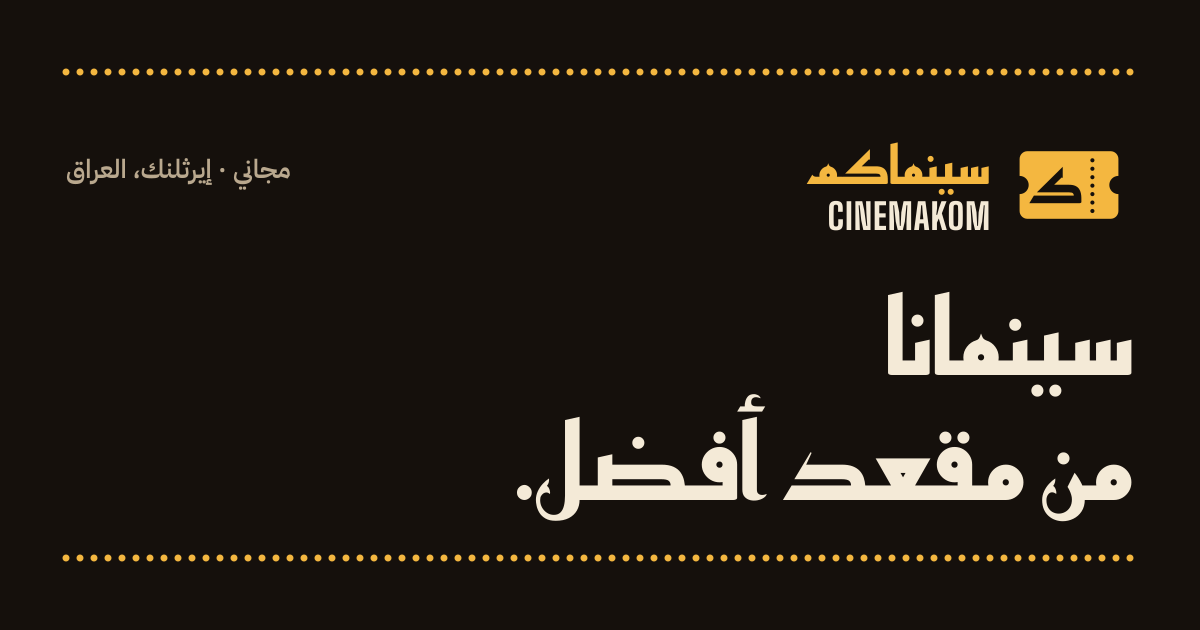
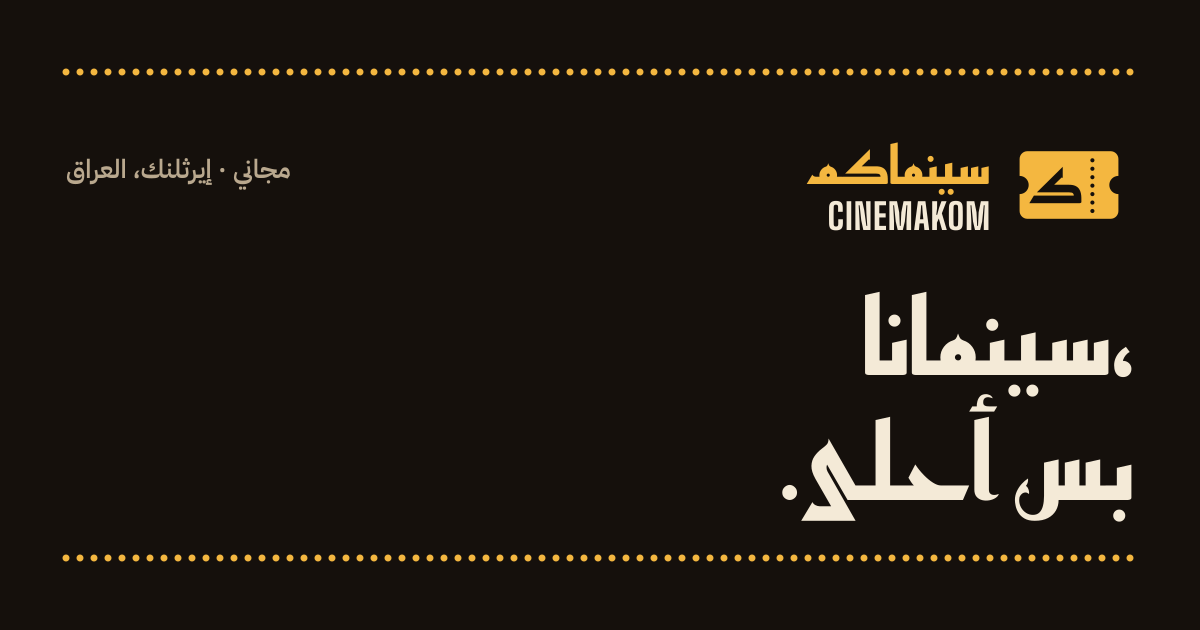
Arabic headline: «سينمانا، بس أحلى.» (owner's choice)

Changed region(s): [[0.4317, 0.6333, 0.9558, 0.8444], [0.7092, 0.4524, 0.9558, 0.6032], [0.8325, 0.6032, 0.8942, 0.6333]]

diff --git a/src/i18n/ar.ts b/src/i18n/ar.ts
@@ -7,7 +7,7 @@ const ar: Dict = {
     lang: 'ar',
     dir: 'rtl',
     title: 'سينماكم: تطبيق مجاني لسينمانا على أندرويد والتلفاز وويندوز ولينكس',
-    ogTitle: 'سينماكم: سينمانا من مقعد أفضل',
+    ogTitle: 'سينماكم: سينمانا، بس أحلى',
     description:
       'تطبيق مجاني وغير رسمي لمشاهدة أفلام ومسلسلات سينمانا على هواتف أندرويد وشاشات Android TV وحواسيب ويندوز ولينكس. يعمل عبر إيرثلنك في العراق.',
     ogAlt: 'سينماكم: تطبيق مجاني وغير رسمي لسينمانا',
@@ -34,7 +34,7 @@ const ar: Dict = {
   },
   hero: {
     eyebrow: 'يُعرض الآن',
-    headline: ['سينمانا', 'من مقعد أفضل.'],
+    headline: ['سينمانا،', 'بس أحلى.'],
     lede: 'سينماكم تطبيق مجاني وغير رسمي لمشاهدة أفلام ومسلسلات سينمانا على هاتفك وتلفازك وحاسوبك.',
     cta: 'حمّل التطبيق',
     caption: 'الإصدار {version} · {date}',

diff --git a/docs/GUIDE.md b/docs/GUIDE.md
@@ -238,7 +238,7 @@ Write it short, warm and concrete. Every string lives in one dictionary per lang
 | Key | English | Arabic |
 |---|---|---|
 | eyebrow | NOW SHOWING | يُعرض الآن |
-| headline | Cinemana, from a better seat. | سينمانا من مقعد أفضل. |
+| headline | Cinemana, from a better seat. | سينمانا، بس أحلى. *(the owner chose this Iraqi line on 2026-11-23)* |
 | lede | Cinemakom is a free, unofficial app for watching Cinemana's movies and series on your phone, TV and computer. | سينماكم تطبيق مجاني وغير رسمي لمشاهدة أفلام ومسلسلات سينمانا على هاتفك وتلفازك وحاسوبك. |
 | earthlink | Works only on an Earthlink connection in Iraq. Cinemana itself is only reachable through Earthlink, so Cinemakom is too. Titles you download play anywhere. | يعمل فقط عبر إنترنت إيرثلنك في العراق، لأن سينمانا نفسها لا تُفتح إلا عبر إيرثلنك. أما ما تحمّله فيعمل في أي مكان. |
 | pick | Pick the device you'll watch on | اختر الجهاز الذي ستشاهد عليه |

diff --git a/README.md b/README.md
@@ -27,7 +27,7 @@
 
 ## العربية
 
-<img src="public/og-ar.png" alt="سينماكم: سينمانا من مقعد أفضل" width="100%">
+<img src="public/og-ar.png" alt="سينماكم: سينمانا، بس أحلى" width="100%">
 
 **سينماكم** تطبيق مجاني وغير رسمي لمشاهدة أفلام ومسلسلات سينمانا على الهاتف والتلفاز والحاسوب. هذا المستودع هو موقع التطبيق، ومنه تحمّل أحدث إصدار.
 
